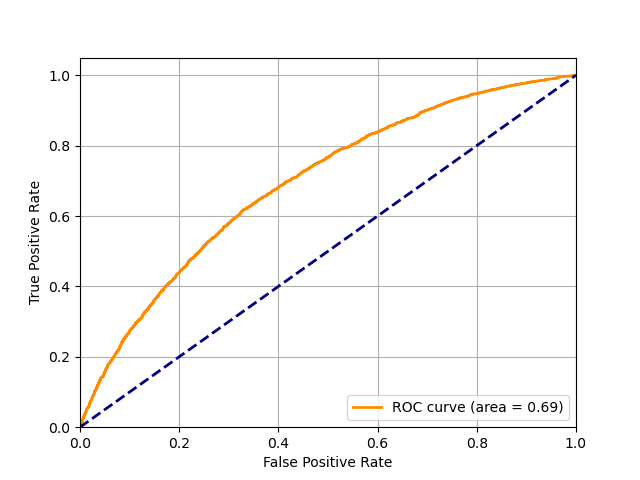
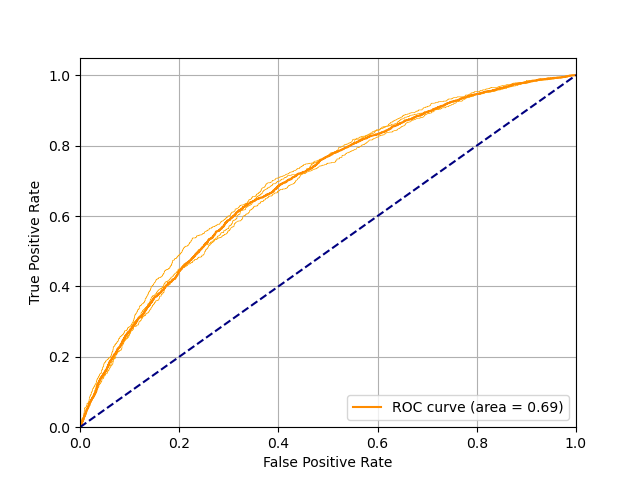
interpolation of partials across models

diff --git a/plots.py b/plots.py
@@ -1,14 +1,23 @@
+import numpy as np
 import matplotlib.pyplot as plt
 from sklearn.metrics import roc_curve, auc
 
 def plot_roc_curve(preds, targets, fname = './results/roc_curve.png'):
-    fpr, tpr, _ = roc_curve(targets, preds)      
-    roc_auc = auc(fpr, tpr)
-    lw = 2
+    assert len(preds) == len(targets)
+
     plt.clf()
     plt.figure()
-    plt.plot(fpr, tpr, '-', color='darkorange', lw=lw, label='ROC curve (area = %0.2f)' % roc_auc,)
-    plt.plot([0, 1], [0, 1], color='navy', lw=lw, linestyle='--')
+    for i in range(len(preds)):
+        fpr, tpr, _ = roc_curve(targets[i], preds[i])      
+        roc_auc = auc(fpr, tpr)    
+        plt.plot(fpr, tpr, '-', color='orange', lw=0.5)
+    
+    t = np.concatenate(targets)
+    p = np.concatenate(preds)
+    fpr, tpr, _ = roc_curve(t, p)
+    roc_auc = auc(fpr, tpr)
+    plt.plot(fpr, tpr, '-', color='darkorange', lw=1.5, label='ROC curve (area = %0.2f)' % roc_auc,)
+    plt.plot([0, 1], [0, 1], color='navy', lw=1.5, linestyle='--')
     plt.xlim([0.0, 1.0])
     plt.ylim([0.0, 1.05])
     plt.grid()
@@ -18,27 +27,45 @@ def plot_roc_curve(preds, targets, fname = './results/roc_curve.png'):
     plt.savefig(fname)
 
 
-def plot_shape_functions(p, x, names, nrows = 2, fname = './results/shape_functions.png'):
-    assert p.shape == x.shape
-    assert p.shape[1] == len(names)
-
-    n = x.shape[1]    
+def plot_shape_functions(partials, features, names, nrows = 2, max_k = 10, fname = './results/shape_functions.png'):
+    assert len(partials) == len(features)
+    
+    n = len(names)
     ncols = n // nrows
     plt.clf()
     fig, axes = plt.subplots(nrows = nrows, ncols = ncols, figsize = (10, 5))
-    for i in range(p.shape[1]):
+    for i in range(n):
 
         r = i // ncols
         c = i % ncols     
 
-        axes[r, c].plot(x[:,i], p[:,i], 'o', label = 'logit')
+        x = np.concatenate([f[:,i] for f in features])        
+        x_points = np.linspace(x.min(), x.max(), 100)        
+        interpolates = []
+        for j in range(len(partials)):
+            x = features[j][:,i]
+            y = partials[j][:,i]
+            idx = x.argsort()
+            x = x[idx]
+            y = y[idx]
+            axes[r, c].plot(x, y, '-', color = 'orange', lw = 0.5)
+
+            interpolates.append(np.interp(x_points, x, y))
+
+        averages = [np.average(x) for x in zip(*interpolates)]
+        axes[r, c].plot(x_points, averages, '-', color = 'orange', lw = 1.5)
+        
+        x_, n = np.unique(x, return_counts=True) 
+        twin = axes[r, c].twinx()
+        if len(x_) <= max_k:
+            twin.bar(x_, n, width = 1, alpha = .25)    
+        else:            
+            twin.hist(x, alpha = .25)
+            
         axes[r, c].grid()
         axes[r, c].set_xlabel(names[i].replace('_', ' '))
-        axes[r, c].legend() 
 
-        twin = axes[r, c].twinx()
-        twin.hist(x[:,i], alpha = .5, label = 'hist')
-        twin.legend()
+        
 
     plt.tight_layout()
     plt.savefig(fname)

diff --git a/demo.py b/demo.py
@@ -11,8 +11,8 @@ def main():
     X = data.iloc[:,:-1].values
     y = data.iloc[:, -1].values
 
-    preds, partials = [], []
-    cv = KFold(n_splits = 5, shuffle=False)
+    predicts, partials, features, targets = [], [], [], []
+    cv = KFold(n_splits = 3, shuffle=False)
     for i, (train_idx, test_idx) in enumerate(cv.split(X, y)):
 
         print('\t===== Fold no. {} =====\n'.format(i + 1))
@@ -52,14 +52,13 @@ def main():
             data_test
         )
 
-        preds.append(y_)
+        predicts.append(y_)
         partials.append(p_)
-
-    preds = np.concatenate(preds)
-    partials = np.concatenate(partials)
+        features.append(X[test_idx])
+        targets.append(y[test_idx])
     
-    plot_roc_curve(preds, y)
-    plot_shape_functions(partials, X, cols[:-1])    
+    plot_roc_curve(predicts, targets)
+    plot_shape_functions(partials, features, cols[:-1])    
 
 if __name__ == '__main__':
     main()
